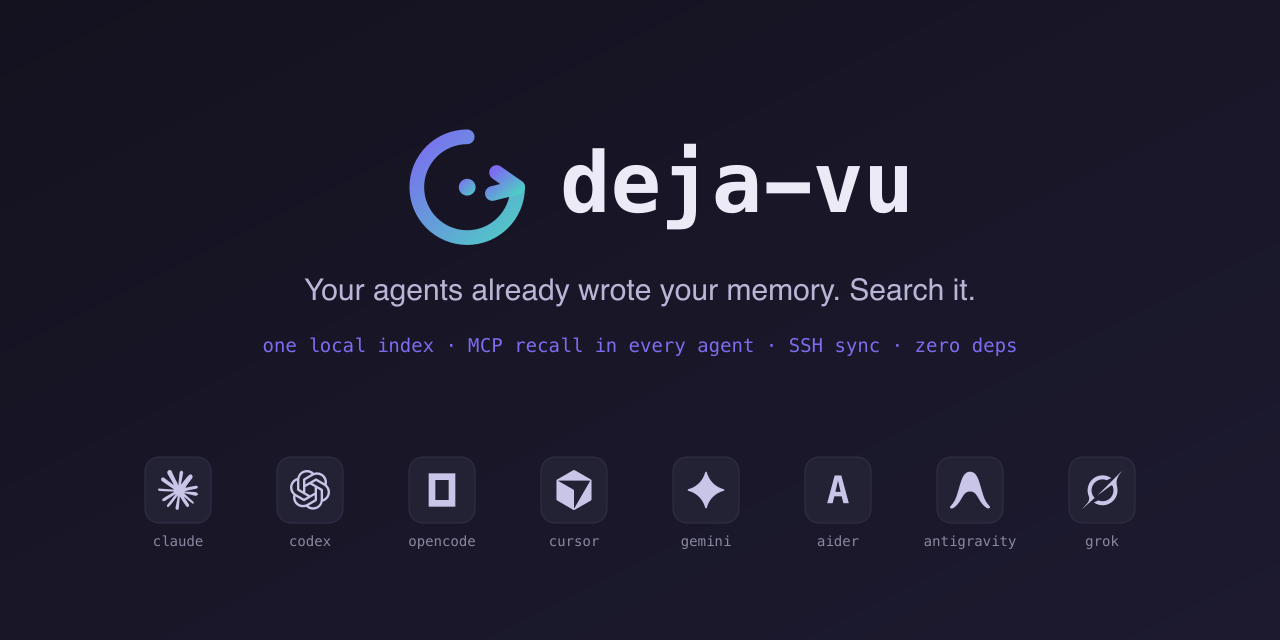
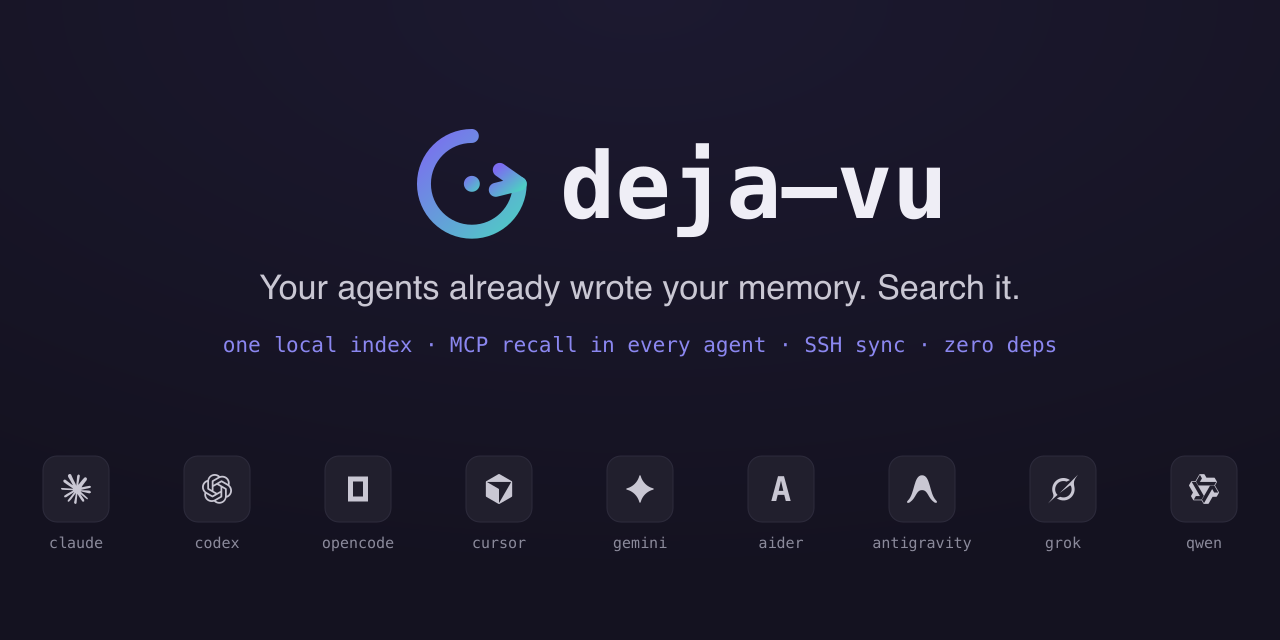
docs: nine harnesses on the site, og image and tagline (#128)

diff --git a/docs/index.html b/docs/index.html
@@ -4,11 +4,11 @@
 <meta charset="utf-8">
 <meta name="viewport" content="width=device-width, initial-scale=1">
 <title>deja-vu — your agents already solved this. deja finds it.</title>
-<meta name="description" content="A memory layer for coding agents: search, MCP recall, auto-context, secret redaction, stats, share and sync over the session histories Claude Code, Codex, opencode, Cursor, Gemini CLI, aider, Antigravity and Grok Build already write. One zero-dependency binary, fully local.">
+<meta name="description" content="A memory layer for coding agents: search, MCP recall, auto-context, secret redaction, stats, share and sync over the session histories Claude Code, Codex, opencode, Cursor, Gemini CLI, aider, Antigravity, Grok Build and Qwen Code already write. One zero-dependency binary, fully local.">
 <link rel="canonical" href="https://vshulcz.github.io/deja-vu/">
 <meta property="og:type" content="website">
 <meta property="og:title" content="deja-vu — search every session your coding agents ever wrote">
-<meta property="og:description" content="Your agents already solved this. deja finds it. One local index across eight coding agents, served back to them via MCP.">
+<meta property="og:description" content="Your agents already solved this. deja finds it. One local index across nine coding agents, served back to them via MCP.">
 <meta property="og:url" content="https://vshulcz.github.io/deja-vu/">
 <meta property="og:image" content="https://vshulcz.github.io/deja-vu/assets/og.png">
 <meta name="twitter:card" content="summary_large_image">
@@ -127,7 +127,7 @@ a:hover{text-decoration:underline}
     <button class="copy" data-copy="cmd">copy</button>
   </div>
 <div class="agents">
-  <div class="cap">one index &middot; seven agents</div>
+  <div class="cap">one index &middot; nine agents</div>
   <div class="row">
     <span class="agent"><span class="disc"><svg aria-label="Claude Code" fill="currentColor" fill-rule="evenodd" height="1em" style="flex:none;line-height:1" viewBox="0 0 24 24" width="1em" xmlns="http://www.w3.org/2000/svg"><title>Claude</title><path d="M4.709 15.955l4.72-2.647.08-.23-.08-.128H9.2l-.79-.048-2.698-.073-2.339-.097-2.266-.122-.571-.121L0 11.784l.055-.352.48-.321.686.06 1.52.103 2.278.158 1.652.097 2.449.255h.389l.055-.157-.134-.098-.103-.097-2.358-1.596-2.552-1.688-1.336-.972-.724-.491-.364-.462-.158-1.008.656-.722.881.06.225.061.893.686 1.908 1.476 2.491 1.833.365.304.145-.103.019-.073-.164-.274-1.355-2.446-1.446-2.49-.644-1.032-.17-.619a2.97 2.97 0 01-.104-.729L6.283.134 6.696 0l.996.134.42.364.62 1.414 1.002 2.229 1.555 3.03.456.898.243.832.091.255h.158V9.01l.128-1.706.237-2.095.23-2.695.08-.76.376-.91.747-.492.584.28.48.685-.067.444-.286 1.851-.559 2.903-.364 1.942h.212l.243-.242.985-1.306 1.652-2.064.73-.82.85-.904.547-.431h1.033l.76 1.129-.34 1.166-1.064 1.347-.881 1.142-1.264 1.7-.79 1.36.073.11.188-.02 2.856-.606 1.543-.28 1.841-.315.833.388.091.395-.328.807-1.969.486-2.309.462-3.439.813-.042.03.049.061 1.549.146.662.036h1.622l3.02.225.79.522.474.638-.079.485-1.215.62-1.64-.389-3.829-.91-1.312-.329h-.182v.11l1.093 1.068 2.006 1.81 2.509 2.33.127.578-.322.455-.34-.049-2.205-1.657-.851-.747-1.926-1.62h-.128v.17l.444.649 2.345 3.521.122 1.08-.17.353-.608.213-.668-.122-1.374-1.925-1.415-2.167-1.143-1.943-.14.08-.674 7.254-.316.37-.729.28-.607-.461-.322-.747.322-1.476.389-1.924.315-1.53.286-1.9.17-.632-.012-.042-.14.018-1.434 1.967-2.18 2.945-1.726 1.845-.414.164-.717-.37.067-.662.401-.589 2.388-3.036 1.44-1.882.93-1.086-.006-.158h-.055L4.132 18.56l-1.13.146-.487-.456.061-.746.231-.243 1.908-1.312-.006.006z"></path></svg></span><span class="nm">Claude Code</span></span>
     <span class="agent"><span class="disc"><svg aria-label="Codex CLI" fill="currentColor" fill-rule="evenodd" height="1em" style="flex:none;line-height:1" viewBox="0 0 24 24" width="1em" xmlns="http://www.w3.org/2000/svg"><title>OpenAI</title><path d="M9.205 8.658v-2.26c0-.19.072-.333.238-.428l4.543-2.616c.619-.357 1.356-.523 2.117-.523 2.854 0 4.662 2.212 4.662 4.566 0 .167 0 .357-.024.547l-4.71-2.759a.797.797 0 00-.856 0l-5.97 3.473zm10.609 8.8V12.06c0-.333-.143-.57-.429-.737l-5.97-3.473 1.95-1.118a.433.433 0 01.476 0l4.543 2.617c1.309.76 2.189 2.378 2.189 3.948 0 1.808-1.07 3.473-2.76 4.163zM7.802 12.703l-1.95-1.142c-.167-.095-.239-.238-.239-.428V5.899c0-2.545 1.95-4.472 4.591-4.472 1 0 1.927.333 2.712.928L8.23 5.067c-.285.166-.428.404-.428.737v6.898zM12 15.128l-2.795-1.57v-3.33L12 8.658l2.795 1.57v3.33L12 15.128zm1.796 7.23c-1 0-1.927-.332-2.712-.927l4.686-2.712c.285-.166.428-.404.428-.737v-6.898l1.974 1.142c.167.095.238.238.238.428v5.233c0 2.545-1.974 4.472-4.614 4.472zm-5.637-5.303l-4.544-2.617c-1.308-.761-2.188-2.378-2.188-3.948A4.482 4.482 0 014.21 6.327v5.423c0 .333.143.571.428.738l5.947 3.449-1.95 1.118a.432.432 0 01-.476 0zm-.262 3.9c-2.688 0-4.662-2.021-4.662-4.519 0-.19.024-.38.047-.57l4.686 2.71c.286.167.571.167.856 0l5.97-3.448v2.26c0 .19-.07.333-.237.428l-4.543 2.616c-.619.357-1.356.523-2.117.523zm5.899 2.83a5.947 5.947 0 005.827-4.756C22.287 18.339 24 15.84 24 13.296c0-1.665-.713-3.282-1.998-4.448.119-.5.19-.999.19-1.498 0-3.401-2.759-5.947-5.946-5.947-.642 0-1.26.095-1.88.31A5.962 5.962 0 0010.205 0a5.947 5.947 0 00-5.827 4.757C1.713 5.447 0 7.945 0 10.49c0 1.666.713 3.283 1.998 4.448-.119.5-.19 1-.19 1.499 0 3.401 2.759 5.946 5.946 5.946.642 0 1.26-.095 1.88-.309a5.96 5.96 0 004.162 1.713z"></path></svg></span><span class="nm">Codex CLI</span></span>
@@ -137,6 +137,7 @@ a:hover{text-decoration:underline}
[1 lines of base64/hex data omitted]
     <span class="agent"><span class="disc"><svg aria-label="Antigravity" fill="currentColor" fill-rule="evenodd" height="1em" style="flex:none;line-height:1" viewBox="0 0 24 24" width="1em" xmlns="http://www.w3.org/2000/svg"><title>Antigravity</title><path d="M21.751 22.607c1.34 1.005 3.35.335 1.508-1.508C17.73 15.74 18.904 1 12.037 1 5.17 1 6.342 15.74.815 21.1c-2.01 2.009.167 2.511 1.507 1.506 5.192-3.517 4.857-9.714 9.715-9.714 4.857 0 4.522 6.197 9.714 9.715z"></path></svg></span><span class="nm">Antigravity</span></span>
     <span class="agent"><span class="disc"><svg aria-label="Grok Build" fill="currentColor" fill-rule="evenodd" height="1em" style="flex:none;line-height:1" viewBox="0 0 24 24" width="1em" xmlns="http://www.w3.org/2000/svg"><title>Grok</title><path d="M9.27 15.29l7.978-5.897c.391-.29.95-.177 1.137.272.98 2.369.542 5.215-1.41 7.169-1.951 1.954-4.667 2.382-7.149 1.406l-2.711 1.257c3.889 2.661 8.611 2.003 11.562-.953 2.341-2.344 3.066-5.539 2.388-8.42l.006.007c-.983-4.232.242-5.924 2.75-9.383.06-.082.12-.164.179-.248l-3.301 3.305v-.01L9.267 15.292M7.623 16.723c-2.792-2.67-2.31-6.801.071-9.184 1.761-1.763 4.647-2.483 7.166-1.425l2.705-1.25a7.808 7.808 0 00-1.829-1A8.975 8.975 0 005.984 5.83c-2.533 2.536-3.33 6.436-1.962 9.764 1.022 2.487-.653 4.246-2.34 6.022-.599.63-1.199 1.259-1.682 1.925l7.62-6.815"></path></svg></span><span class="nm">Grok Build</span></span>
+    <span class="agent"><span class="disc"><svg aria-label="Qwen Code" fill="currentColor" fill-rule="evenodd" height="1em" style="flex:none;line-height:1" viewBox="0 0 24 24" width="1em" xmlns="http://www.w3.org/2000/svg"><title>Qwen Code</title><path d="M23.919 14.545 20.817 9.17l1.47-2.544a.56.56 0 0 0 0-.566l-1.633-2.83a.57.57 0 0 0-.49-.283h-6.207L12.487.402a.57.57 0 0 0-.49-.284H8.732a.56.56 0 0 0-.49.284L5.139 5.775h-2.94a.56.56 0 0 0-.49.284L.077 8.887a.56.56 0 0 0 0 .567L3.18 14.83l-1.47 2.545a.56.56 0 0 0 0 .566l1.634 2.83a.57.57 0 0 0 .49.283h6.205l1.47 2.545a.57.57 0 0 0 .49.284h3.266a.57.57 0 0 0 .49-.284l3.104-5.375h2.94a.57.57 0 0 0 .49-.283l1.634-2.828a.55.55 0 0 0-.004-.568M8.733.686l1.634 2.828-1.634 2.828H21.8L20.164 9.17H7.425L5.63 6.06Zm1.306 19.801-6.205-.002 1.634-2.83h3.265L2.201 6.344h3.267q3.182 5.517 6.367 11.032zm10.124-5.66L18.53 12l-6.532 11.315-1.634-2.83c2.129-3.673 4.25-7.351 6.373-11.028h3.592l3.102 5.374z"></path></svg></span><span class="nm">Qwen Code</span></span>
   </div>
 </div>
 
@@ -166,7 +167,7 @@ a:hover{text-decoration:underline}
     <div class="card">
       <div class="ic"><svg viewBox="0 0 24 24"><path d="M4 6h16M4 12h16M4 18h10"/></svg></div>
       <h3>One index, every harness</h3>
-      <p>Eight harnesses — Claude Code, Codex, opencode, Cursor, Gemini CLI, aider, Antigravity, Grok Build — one index, retroactively. A fix found in Codex is recalled inside Claude Code.</p>
+      <p>Nine harnesses — Claude Code, Codex, opencode, Cursor, Gemini CLI, aider, Antigravity, Grok Build, Qwen Code — one index, retroactively. A fix found in Codex is recalled inside Claude Code.</p>
     </div>
     <div class="card">
       <div class="ic"><svg viewBox="0 0 24 24"><rect x="4" y="10" width="16" height="10" rx="2"/><path d="M8 10V7a4 4 0 0 1 8 0v3"/></svg></div>

diff --git a/README.md b/README.md
@@ -1,6 +1,6 @@
 <p align="center"><img src="assets/logo.svg" width="340" alt="deja-vu"></p>
 
-<p align="center"><strong>Your agents already solved this. deja finds it.</strong></p>
+<p align="center"><strong>Your agents already solved this. deja finds it.</strong><br>Search 3.3&nbsp;GB of agent history in ~12&nbsp;ms &mdash; one zero-dependency binary, fully local.</p>
 
 <p align="center"><a href="https://vshulcz.github.io/deja-vu/">vshulcz.github.io/deja-vu</a></p>
 
